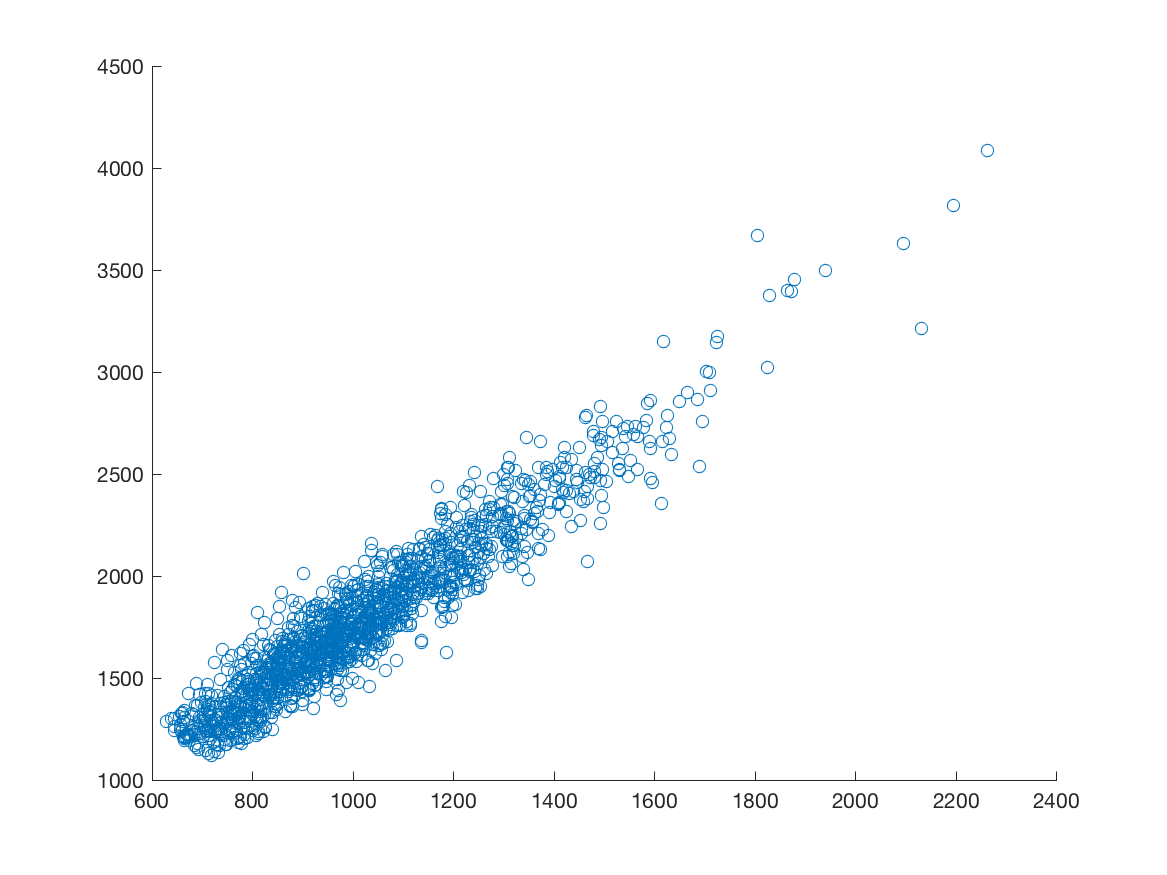
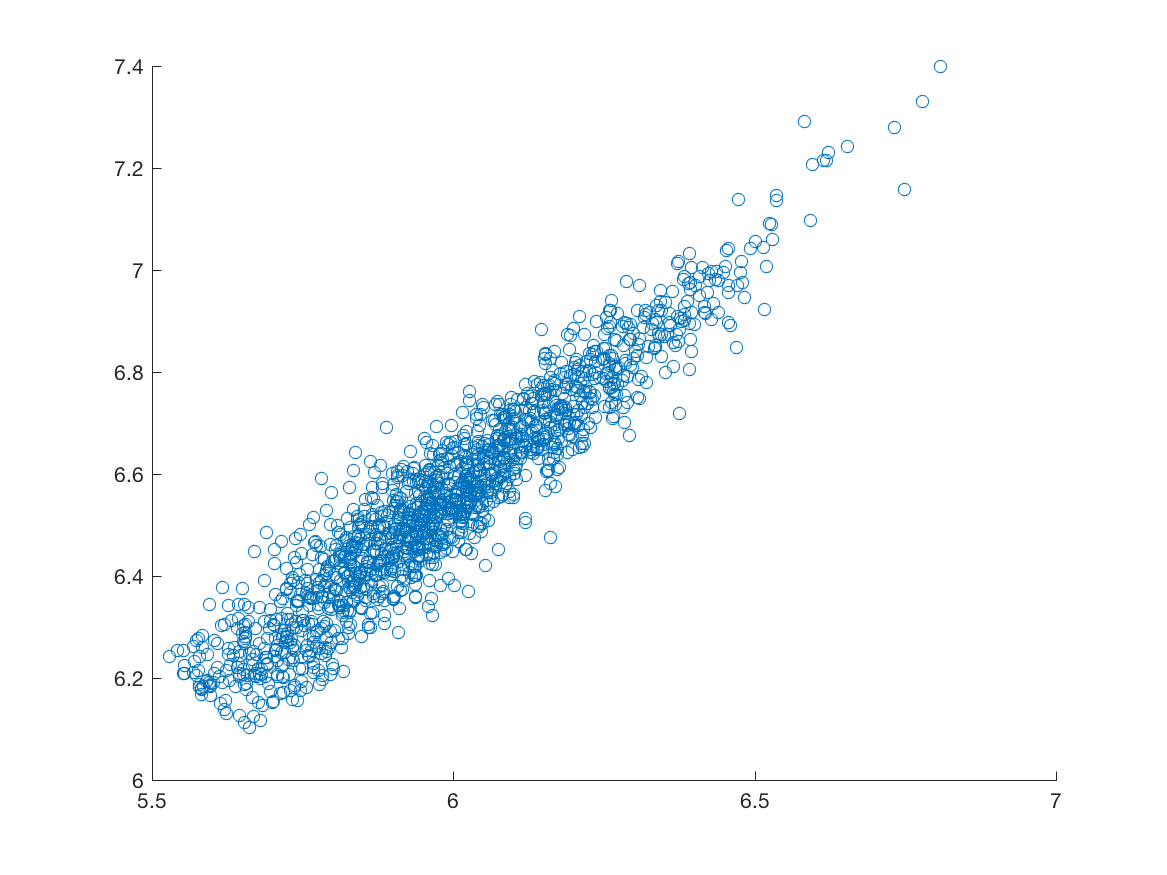
[ag] debris arcsinh transformed

diff --git a/hasDebris.m b/hasDebris.m
@@ -5,6 +5,6 @@ markers = obj.markerNames';
 dna1 = obj.data(:, arrayfun(@(x1) ischar(x1{1}) && ~isempty(strfind(x1{1}, 'DNA1')) , markers));
 dna2 = obj.data(:, arrayfun(@(x1) ischar(x1{1}) && ~isempty(strfind(x1{1}, 'DNA2')) , markers));
 
-scatter(dna1, dna2);
+scatter(asinh(dna1/5), asinh(dna2/5));
 print(out, '-dpng');
 end
